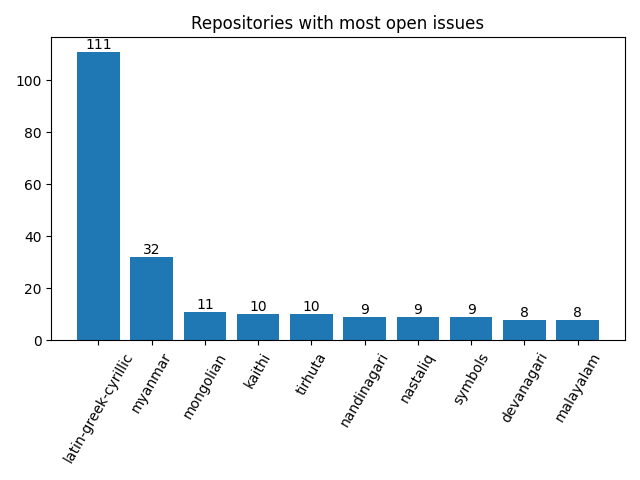
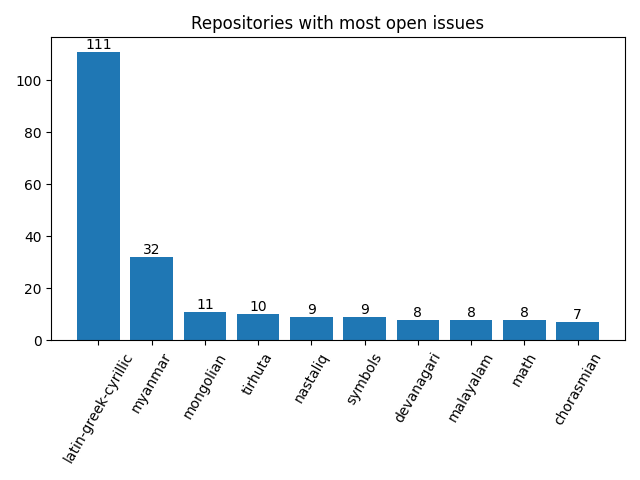
Apply automatic changes

diff --git a/docs/analytics.html b/docs/analytics.html
@@ -114,8 +114,8 @@ td .material-icons { display:inline-flex; vertical-align: top; font-size:1.1rem;
 						</tr>
 						<tr>
 							<td>Oct</td>
-							<td>31</td>
-							<td>28</td>
+							<td>34</td>
+							<td>40</td>
 						</tr>
 					</table>
 				</div>
@@ -151,21 +151,9 @@ td .material-icons { display:inline-flex; vertical-align: top; font-size:1.1rem;
 						</tr>
 						<tr>
 							<td>
-								<a href="http://github.com/notofonts/kaithi/issues">kaithi</a>
-							</td>
-							<td>10</td>
-						</tr>
-						<tr>
-							<td>
 								<a href="http://github.com/notofonts/tirhuta/issues">tirhuta</a>
 							</td>
 							<td>10</td>
-						</tr>
-						<tr>
-							<td>
-								<a href="http://github.com/notofonts/nandinagari/issues">nandinagari</a>
-							</td>
-							<td>9</td>
 						</tr>
 						<tr>
 							<td>
@@ -190,6 +178,18 @@ td .material-icons { display:inline-flex; vertical-align: top; font-size:1.1rem;
 								<a href="http://github.com/notofonts/malayalam/issues">malayalam</a>
 							</td>
 							<td>8</td>
+						</tr>
+						<tr>
+							<td>
+								<a href="http://github.com/notofonts/math/issues">math</a>
+							</td>
+							<td>8</td>
+						</tr>
+						<tr>
+							<td>
+								<a href="http://github.com/notofonts/chorasmian/issues">chorasmian</a>
+							</td>
+							<td>7</td>
 						</tr>
 					</table>
 				</div>
@@ -218,13 +218,13 @@ td .material-icons { display:inline-flex; vertical-align: top; font-size:1.1rem;
 				<tr>
 					<td>3</td>
 					<td>
-						<a href="http://github.com/notofonts/balinese/issues">balinese</a>,  						<a href="http://github.com/notofonts/manichaean/issues">manichaean</a>,  						<a href="http://github.com/notofonts/old-uyghur/issues">old-uyghur</a>,  						<a href="http://github.com/notofonts/sharada/issues">sharada</a>,  						<a href="http://github.com/notofonts/soyombo/issues">soyombo</a> 
+						<a href="http://github.com/notofonts/ahom/issues">ahom</a>,  						<a href="http://github.com/notofonts/manichaean/issues">manichaean</a>,  						<a href="http://github.com/notofonts/nandinagari/issues">nandinagari</a>,  						<a href="http://github.com/notofonts/old-uyghur/issues">old-uyghur</a>,  						<a href="http://github.com/notofonts/sharada/issues">sharada</a>,  						<a href="http://github.com/notofonts/soyombo/issues">soyombo</a> 
 					</td>
 				</tr>
 				<tr>
 					<td>4</td>
 					<td>
-						<a href="http://github.com/notofonts/ahom/issues">ahom</a>,  						<a href="http://github.com/notofonts/batak/issues">batak</a>,  						<a href="http://github.com/notofonts/javanese/issues">javanese</a>,  						<a href="http://github.com/notofonts/kawi/issues">kawi</a>,  						<a href="http://github.com/notofonts/syriac/issues">syriac</a>,  						<a href="http://github.com/notofonts/telugu/issues">telugu</a>,  						<a href="http://github.com/notofonts/tibetan/issues">tibetan</a> 
+						<a href="http://github.com/notofonts/balinese/issues">balinese</a>,  						<a href="http://github.com/notofonts/batak/issues">batak</a>,  						<a href="http://github.com/notofonts/javanese/issues">javanese</a>,  						<a href="http://github.com/notofonts/kawi/issues">kawi</a>,  						<a href="http://github.com/notofonts/syriac/issues">syriac</a>,  						<a href="http://github.com/notofonts/telugu/issues">telugu</a>,  						<a href="http://github.com/notofonts/tibetan/issues">tibetan</a> 
 					</td>
 				</tr>
 				<tr>
@@ -242,7 +242,7 @@ td .material-icons { display:inline-flex; vertical-align: top; font-size:1.1rem;
 				<tr>
 					<td>7</td>
 					<td>
-						<a href="http://github.com/notofonts/chorasmian/issues">chorasmian</a>,  						<a href="http://github.com/notofonts/egyptian-hieroglyphs/issues">egyptian-hieroglyphs</a>,  						<a href="http://github.com/notofonts/gujarati/issues">gujarati</a>,  						<a href="http://github.com/notofonts/hebrew/issues">hebrew</a>,  						<a href="http://github.com/notofonts/kannada/issues">kannada</a>,  						<a href="http://github.com/notofonts/oriya/issues">oriya</a> 
+						<a href="http://github.com/notofonts/chorasmian/issues">chorasmian</a>,  						<a href="http://github.com/notofonts/egyptian-hieroglyphs/issues">egyptian-hieroglyphs</a>,  						<a href="http://github.com/notofonts/gujarati/issues">gujarati</a>,  						<a href="http://github.com/notofonts/hebrew/issues">hebrew</a>,  						<a href="http://github.com/notofonts/kaithi/issues">kaithi</a>,  						<a href="http://github.com/notofonts/kannada/issues">kannada</a>,  						<a href="http://github.com/notofonts/oriya/issues">oriya</a> 
 					</td>
 				</tr>
 				<tr>
@@ -254,13 +254,13 @@ td .material-icons { display:inline-flex; vertical-align: top; font-size:1.1rem;
 				<tr>
 					<td>9</td>
 					<td>
-						<a href="http://github.com/notofonts/nandinagari/issues">nandinagari</a>,  						<a href="http://github.com/notofonts/nastaliq/issues">nastaliq</a>,  						<a href="http://github.com/notofonts/symbols/issues">symbols</a> 
+						<a href="http://github.com/notofonts/nastaliq/issues">nastaliq</a>,  						<a href="http://github.com/notofonts/symbols/issues">symbols</a> 
 					</td>
 				</tr>
 				<tr>
 					<td>10</td>
 					<td>
-						<a href="http://github.com/notofonts/kaithi/issues">kaithi</a>,  						<a href="http://github.com/notofonts/tirhuta/issues">tirhuta</a> 
+						<a href="http://github.com/notofonts/tirhuta/issues">tirhuta</a> 
 					</td>
 				</tr>
 			</table>
@@ -309,7 +309,7 @@ td .material-icons { display:inline-flex; vertical-align: top; font-size:1.1rem;
 							<td>
 									<a href="http://github.com/notofonts/myanmar/issues">myanmar</a>: 32, 
 
-									<a href="http://github.com/notofonts/balinese/issues">balinese</a>: 3, 
+									<a href="http://github.com/notofonts/balinese/issues">balinese</a>: 4, 
 
 									<a href="http://github.com/notofonts/georgian/issues">georgian</a>: 1, 
 
@@ -393,17 +393,17 @@ td .material-icons { display:inline-flex; vertical-align: top; font-size:1.1rem;
 						<tr>
 							<td>4</td>
 							<td>
-									<a href="http://github.com/notofonts/kaithi/issues">kaithi</a>: 10, 
-
 									<a href="http://github.com/notofonts/tirhuta/issues">tirhuta</a>: 10, 
 
 									<a href="http://github.com/notofonts/egyptian-hieroglyphs/issues">egyptian-hieroglyphs</a>: 7, 
 
+									<a href="http://github.com/notofonts/kaithi/issues">kaithi</a>: 7, 
+
 									<a href="http://github.com/notofonts/old-hungarian/issues">old-hungarian</a>: 6, 
 
-									<a href="http://github.com/notofonts/ahom/issues">ahom</a>: 4, 
-
 									<a href="http://github.com/notofonts/kawi/issues">kawi</a>: 4, 
+
+									<a href="http://github.com/notofonts/ahom/issues">ahom</a>: 3, 
 
 									<a href="http://github.com/notofonts/manichaean/issues">manichaean</a>: 3, 
 
@@ -427,13 +427,13 @@ td .material-icons { display:inline-flex; vertical-align: top; font-size:1.1rem;
 						<tr>
 							<td>5</td>
 							<td>
-									<a href="http://github.com/notofonts/nandinagari/issues">nandinagari</a>: 9, 
-
 									<a href="http://github.com/notofonts/chorasmian/issues">chorasmian</a>: 7, 
 
 									<a href="http://github.com/notofonts/dives-akuru/issues">dives-akuru</a>: 6, 
 
 									<a href="http://github.com/notofonts/bhaiksuki/issues">bhaiksuki</a>: 5, 
+
+									<a href="http://github.com/notofonts/nandinagari/issues">nandinagari</a>: 3, 
 
 									<a href="http://github.com/notofonts/old-uyghur/issues">old-uyghur</a>: 3, 
 
